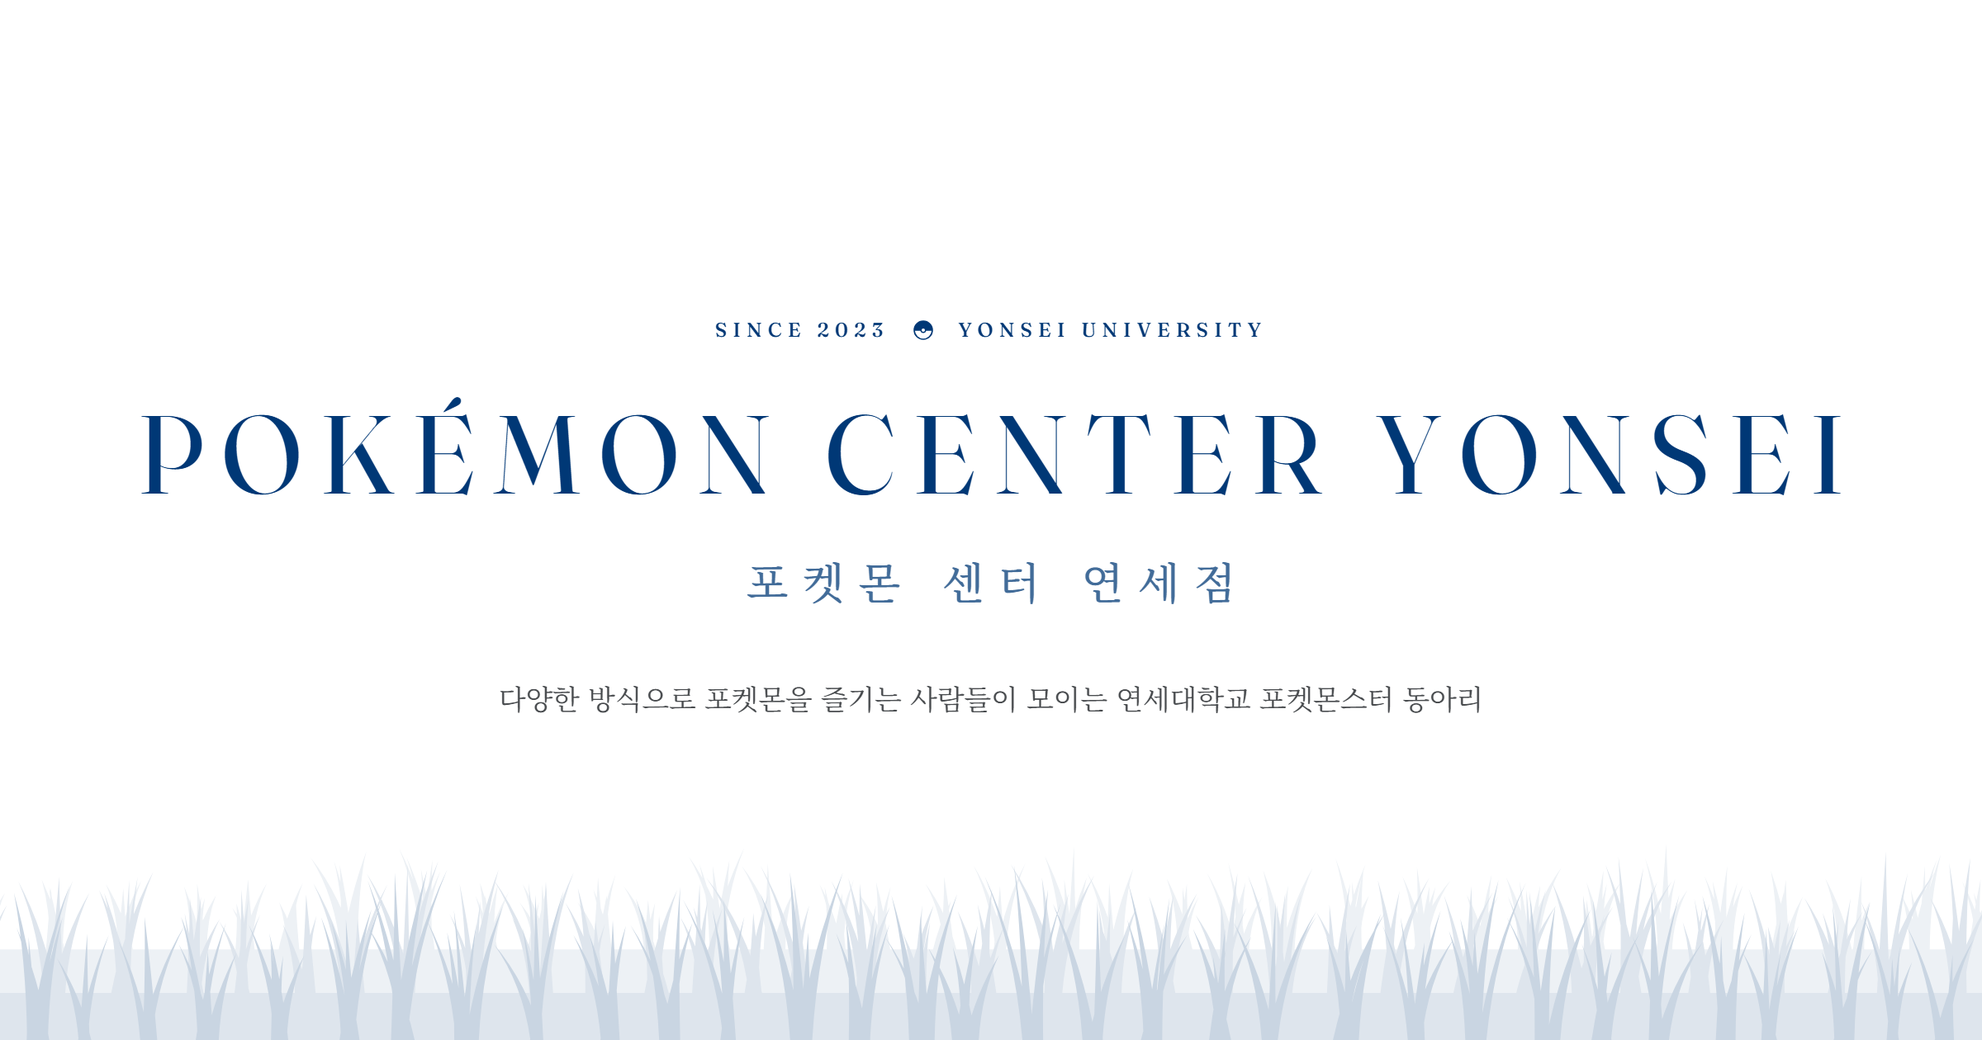
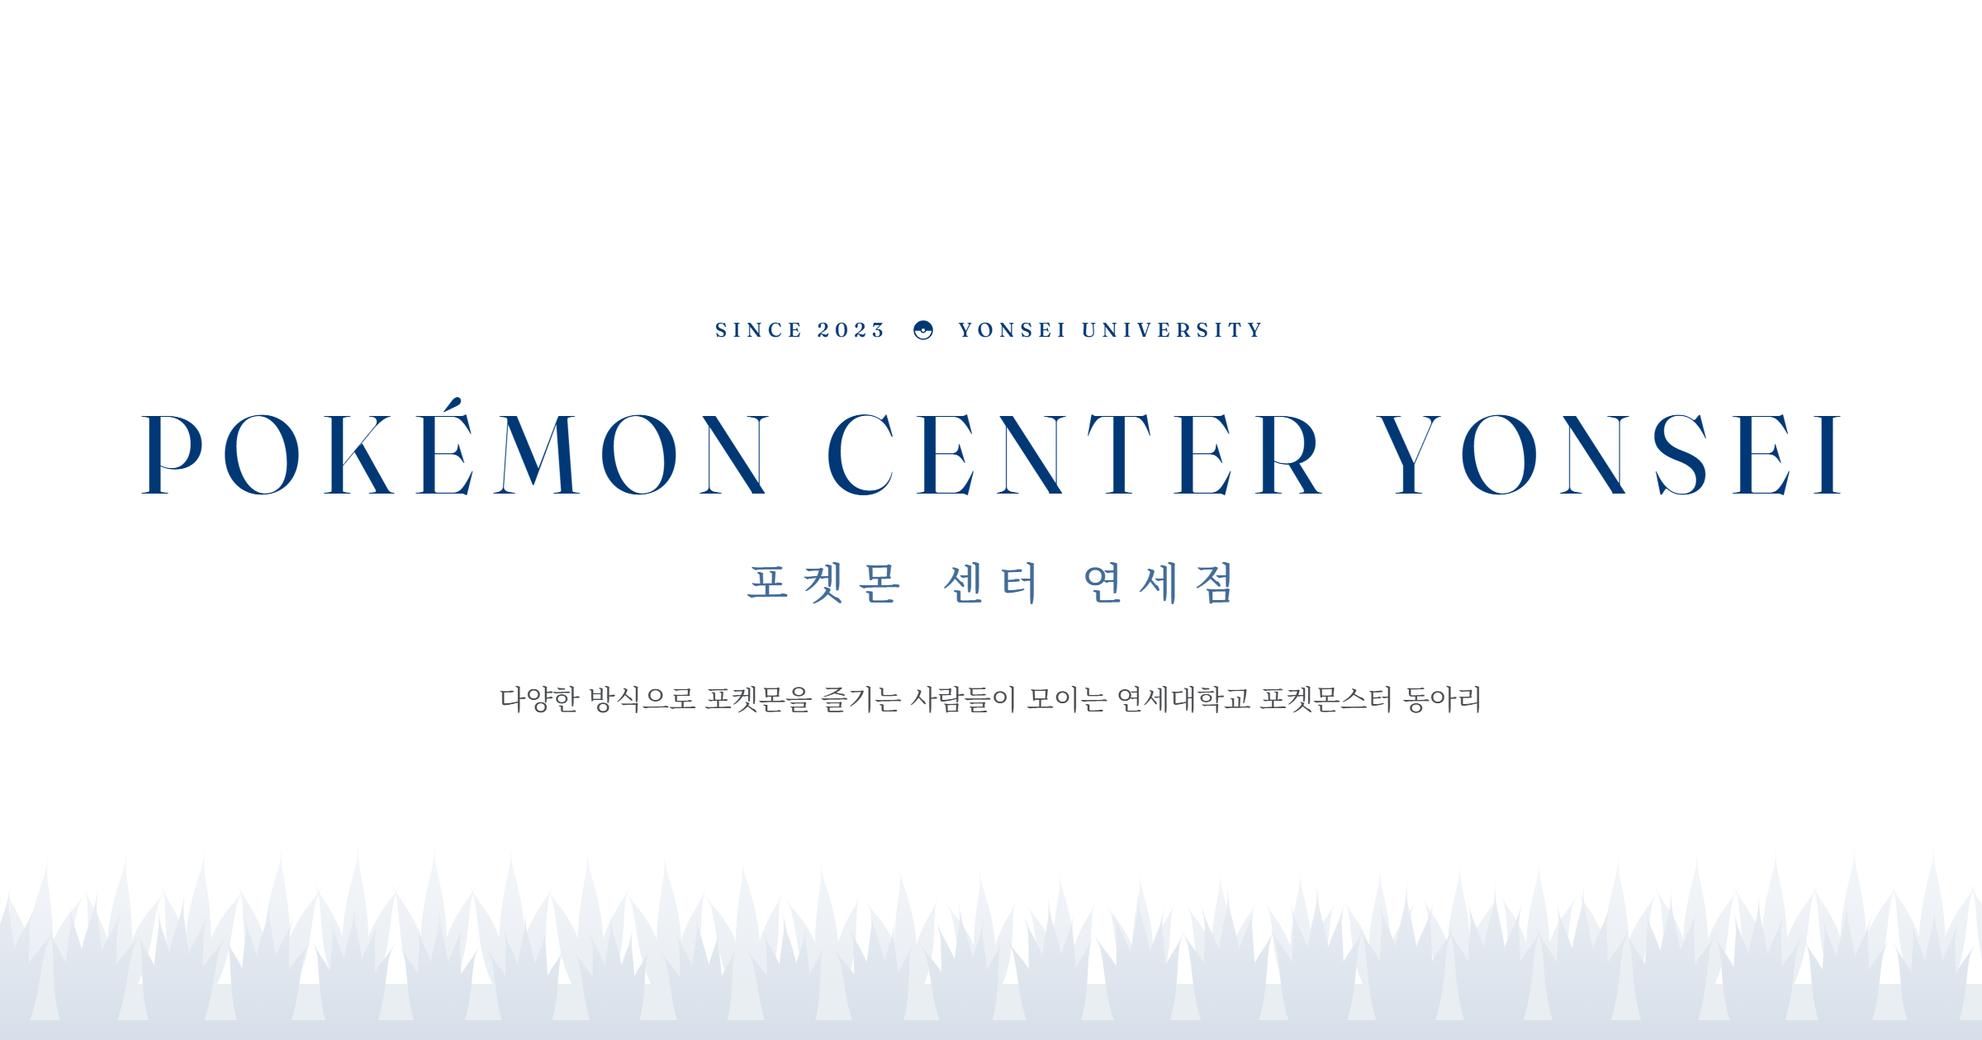
Soften the hero grass, and let real Pokemon step out of it
The first grass read as weeds: thin random spikes in three dense rows, and
a click set it buzzing at about 8Hz. It is now two rows of evenly spaced
clumps of broad, curling leaves that fade toward the tips, with a gently
waving top line. A click sends one push outward from the point, and the
clumps swing on a soft spring two or three times and settle.

The traced silhouettes are replaced by the colour renders: Rufflet and
Braviary borrow the mascot images already in the page, and Pikachu (the
HOME render) is embedded once as a 326px WebP, since a PNG would break
the gzip budget. The page now sits at that budget, which CLAUDE.md notes.

diff --git a/index.html b/index.html
@@ -2068,7 +2068,8 @@ document.querySelectorAll('[data-copy]').forEach(btn => {
 /* ==========================================================================
    첫 화면의 풀숲.
    첫 화면 아래에 풀숲이 깔려 바람에 흔들린다. 커서가 지나가면 풀이 비켜서고,
-   클릭하면 풀이 바스락거리다가 가끔 포켓몬이 고개를 내민다 (엠블럼의 실루엣을 그대로 쓴다).
+   클릭하면 풀이 물결처럼 출렁이다가 가끔 포켓몬이 고개를 내민다.
+   수리둥보와 워글은 마스코트 섹션의 그림(.art-rufflet, .art-braviary)을 빌려 쓰고, 피카츄만 여기 따로 넣었다.
    ========================================================================== */
 (() => {
   const cv = document.querySelector('.hero-grass');
@@ -2078,30 +2079,29 @@ document.querySelectorAll('[data-copy]').forEach(btn => {
   let w = 0, h = 0, gh = 0, px = -1e4, py = -1e4, pvx = 0, ink = [0, 56, 118], bg = [255, 255, 255];
   let rows = [], rustles = [], enc = null, clicks = 0;
 
-  /* 엠블럼 기호에서 루차불, 워글, 피카츄의 윤곽을 골라낸다 */
-  const mons = (() => {
-    const NS = 'http://www.w3.org/2000/svg', tmp = document.createElementNS(NS, 'svg');
-    tmp.setAttribute('style', 'position:absolute;width:0;height:0;overflow:hidden');
-    document.body.append(tmp);
-    const pick = { rufflet: [], braviary: [], pikachu: [] };
-    for (const p of document.querySelectorAll('#emblem g path')) {
-      const [tx, ty] = p.getAttribute('transform').match(/-?[\d.]+/g).map(Number);
-      const c = p.cloneNode(); c.removeAttribute('transform'); tmp.append(c);
-      const bb = c.getBBox(), x0 = tx + bb.x, y0 = ty + bb.y, x1 = x0 + bb.width, y1 = y0 + bb.height;
-      const mx = (x0 + x1) / 2, my = (y0 + y1) / 2;
-      const key = mx < -350 && my > -60 && my < 480 ? 'rufflet' : mx > 420 && my > -60 && my < 480 ? 'braviary'
-                : Math.abs(mx) < 250 && my < -520 ? 'pikachu' : null;
-      if (key) pick[key].push({ d: p.getAttribute('d'), tx, ty, x0, y0, x1, y1 });
-    }
-    tmp.remove();
-    return Object.entries(pick).filter(([, a]) => a.length).map(([name, a]) => {
-      const path = new Path2D();
-      for (const q of a) path.addPath(new Path2D(q.d), new DOMMatrix().translate(q.tx, q.ty));
-      const x0 = Math.min(...a.map(q => q.x0)), x1 = Math.max(...a.map(q => q.x1));
-      const y0 = Math.min(...a.map(q => q.y0)), y1 = Math.max(...a.map(q => q.y1));
-      return { name, path, x0, y0, wd: x1 - x0, ht: y1 - y0 };
-    });
-  })();
+  /* 풀숲에서 나올 포켓몬. 그림이 실제로 차지하는 영역(투명 여백 제외)을 재 둔다 */
+  const cssImage = sel => {
+    const el = document.querySelector(sel);
+    const m = el && getComputedStyle(el).backgroundImage.match(/url\("?(.+?)"?\)$/);
+    return m && m[1];
+  };
+  /* 피카츄: 공식 HOME 렌더(도감 25번)를 표시 크기의 2배(높이 326px)로 줄인 WebP. PNG로는 용량 한도를 넘는다 */
[1 lines of base64/hex data omitted]
+  const mons = [cssImage('.art-rufflet'), cssImage('.art-braviary'), PIKACHU].filter(Boolean).map(src => {
+    const mon = { img: new Image(), ready: false };
+    mon.img.onload = () => {
+      const n = 128, c = document.createElement('canvas'); c.width = c.height = n;
+      const g = c.getContext('2d'); g.drawImage(mon.img, 0, 0, n, n);
+      const a = g.getImageData(0, 0, n, n).data;
+      let x0 = n, y0 = n, x1 = 0, y1 = 0;
+      for (let y = 0; y < n; y++) for (let x = 0; x < n; x++)
+        if (a[(y * n + x) * 4 + 3] > 16) { x0 = Math.min(x0, x); x1 = Math.max(x1, x + 1); y0 = Math.min(y0, y); y1 = Math.max(y1, y + 1); }
+      const k = mon.img.naturalWidth / n;
+      Object.assign(mon, { sx: x0 * k, sy: y0 * k, sw: (x1 - x0) * k, sh: (y1 - y0) * k, ready: x1 > x0 });
+    };
+    mon.img.src = src;
+    return mon;
+  });
 
   const rgbOf = v => v.split(',').map(x => parseInt(x, 10));
   function readInk() {
@@ -2109,12 +2109,17 @@ document.querySelectorAll('[data-copy]').forEach(btn => {
     ink = rgbOf(cs.getPropertyValue('--navy-rgb'));
     const probe = document.createElement('i'); probe.style.color = cs.getPropertyValue('--bg'); document.body.append(probe);
     bg = getComputedStyle(probe).color.match(/\d+/g).slice(0, 3).map(Number); probe.remove();
+    rows.forEach(paint);
   }
   /* 겹친 풀이 비치지 않도록 반투명 대신 바탕과 섞은 불투명색을 쓴다 */
   const tone = k => `rgb(${ink.map((c, i) => Math.round(bg[i] + (c - bg[i]) * k)).join(',')})`;
+  /* 뿌리 쪽은 진하고 끝으로 갈수록 옅어진다 */
+  function paint(row) {
+    const g = ctx.createLinearGradient(0, row.y - row.top, 0, row.y);
+    g.addColorStop(0, tone(row.k * .55)); g.addColorStop(1, tone(row.k));
+    row.fill = g;
+  }
 
-  let seed = 7;
-  const rnd = () => (seed = (seed * 16807) % 2147483647) / 2147483647;
   function build() {
     const box = cv.getBoundingClientRect();
     w = Math.max(box.width, 1); h = Math.max(box.height, 1);
@@ -2122,77 +2127,101 @@ document.querySelectorAll('[data-copy]').forEach(btn => {
     cv.width = Math.round(w * dpr); cv.height = Math.round(h * dpr);
     ctx.setTransform(dpr, 0, 0, dpr, 0, 0);
     const small = w < 640;
-    gh = small ? Math.min(Math.max(h * .15, 80), 120) : Math.min(Math.max(h * .21, 110), 200);
-    seed = 7;
-    rows = [[.40, .46, .07], [.2, .62, .13], [-.03, .8, .21]].map(([lift, tall, k]) => {
-      const tufts = [], step = small ? 26 : 36;
-      for (let x = -12 + rnd() * step; x < w + 12; x += step * (.75 + rnd() * .5)) {
-        const n = 3 + Math.floor(rnd() * 3), blades = [];
-        for (let i = 0; i < n; i++) blades.push({ lean: (i / (n - 1) - .5) * 1.0 + (rnd() - .5) * .25, len: .6 + rnd() * .4, off: (rnd() - .5) * 8, wd: 2.8 + rnd() * 2 });
-        tufts.push({ x, y: h - gh * lift, H: gh * tall * (.75 + rnd() * .35), blades, ang: 0, vel: 0, ph: rnd() * 6.28 });
+    gh = small ? Math.min(Math.max(h * .13, 80), 110) : Math.min(Math.max(h * .17, 110), 160);
+    /* 두 겹: 뒷줄은 옅고 높이 앉고, 앞줄은 진하고 화면 아래에 붙는다. [밑동 높이, 키, 진하기, 잎 수] */
+    rows = [[.3, .7, .085, 3], [0, .78, .16, 5]].map(([lift, tall, k, n], ri) => {
+      const tufts = [], y = h - gh * lift, step = gh * tall * .62;
+      for (let x = (ri ? 0 : step / 2) - step; x < w + step; x += step) {
+        /* 풀숲 윗선이 완만한 물결을 그리도록 키를 사인으로 고른다 */
+        const H = gh * tall * (.9 + .1 * Math.sin(x / 150 + ri * 2.1));
+        tufts.push({ x, H, ang: 0, vel: 0, hit: 0 });
       }
-      return { k, tufts, y: h - gh * lift };
+      const row = { k, n, y, top: gh * tall * 1.02, tufts };
+      paint(row);
+      return row;
     });
   }
 
-  function blade(x, y, len, lean, wd) {
-    const tx = x + Math.sin(lean) * len, ty = y - Math.cos(lean) * len;
-    const cx = x + Math.sin(lean * .45) * len * .55, cy = y - Math.cos(lean * .45) * len * .55;
-    ctx.moveTo(x - wd, y); ctx.quadraticCurveTo(cx - wd * .4, cy, tx, ty); ctx.quadraticCurveTo(cx + wd * .4, cy, x + wd, y);
+  /* 잎 하나: 밑동은 넓고 가운데가 살짝 부푼 뒤 끝이 뾰족해진다. 끝으로 갈수록 휘어진다 */
+  const SEG = 7, L = new Float32Array((SEG + 1) * 2), R = new Float32Array((SEG + 1) * 2);
+  function leaf(x, y, len, lean, curl, wd) {
+    let cx = x, cy = y;
+    for (let i = 0; i <= SEG; i++) {
+      const s = i / SEG, a = lean + curl * s * s;
+      const half = wd * Math.sin(Math.PI * (.2 + .8 * s)) * (1 - s * .15);
+      const nx = Math.cos(a), ny = Math.sin(a);
+      L[i * 2] = cx - nx * half; L[i * 2 + 1] = cy - ny * half;
+      R[i * 2] = cx + nx * half; R[i * 2 + 1] = cy + ny * half;
+      cx += Math.sin(a) * len / SEG; cy -= Math.cos(a) * len / SEG;
+    }
+    ctx.moveTo(L[0], L[1]);
+    for (let i = 1; i < SEG; i++) ctx.quadraticCurveTo(L[i * 2], L[i * 2 + 1], (L[i * 2] + L[i * 2 + 2]) / 2, (L[i * 2 + 1] + L[i * 2 + 3]) / 2);
+    ctx.quadraticCurveTo(L[SEG * 2], L[SEG * 2 + 1], cx, cy);
+    ctx.quadraticCurveTo(R[SEG * 2], R[SEG * 2 + 1], (R[SEG * 2] + R[SEG * 2 - 2]) / 2, (R[SEG * 2 + 1] + R[SEG * 2 - 1]) / 2);
+    for (let i = SEG - 1; i > 0; i--) ctx.quadraticCurveTo(R[i * 2], R[i * 2 + 1], (R[i * 2] + R[i * 2 - 2]) / 2, (R[i * 2 + 1] + R[i * 2 - 1]) / 2);
+    ctx.lineTo(R[0], R[1]);
+    ctx.closePath();
+  }
+  /* 포기: 넓은 잎 몇 장이 부채꼴로 퍼진다. 가운데 잎이 가장 길고, 바깥 잎일수록 짧고 바깥으로 휜다 */
+  function tuft(tf, n, y) {
+    const c = (n - 1) / 2, sway = tf.ang;
+    for (let i = 0; i < n; i++) {
+      const u = (i - c) / c, au = Math.abs(u);          /* -1 … 1 */
+      leaf(tf.x + u * tf.H * .1, y, tf.H * (1 - .24 * au ** 1.2), u * .2 + sway * .3, u * .26 + sway, tf.H * (.11 - .02 * au));
+    }
   }
 
   function step(t) {
     for (const row of rows) for (const tf of row.tufts) {
-      let target = still ? 0 : Math.sin(t / 1300 + tf.x / 170) * .05 + Math.sin(t / 2900 + tf.x / 90 + tf.ph) * .03;
-      const dx = tf.x - px, dy = tf.y - tf.H * .6 - py, d = Math.hypot(dx, dy);
-      if (d < 120) { const f = (1 - d / 120) ** 2; target += Math.sign(dx || 1) * f * .6; tf.vel += pvx * .004 * f; }
-      tf.vel += (target - tf.ang) * .12 - tf.vel * .2;
+      let target = still ? 0 : Math.sin(t / 1700 + tf.x / 210) * .07 + Math.sin(t / 3100 + tf.x / 120) * .04;
+      const dx = tf.x - px, dy = row.y - tf.H * .6 - py, d = Math.hypot(dx, dy);
+      if (d < 130) { const f = (1 - d / 130) ** 2; target += Math.sign(dx || 1) * f * .45; tf.vel += pvx * .0007 * f; }
+      /* 클릭: 가까운 포기부터 차례로 한 번 밀어 준다. 나머지는 용수철이 알아서 출렁이다 멎는다 */
+      for (const r of rustles) {
+        const dxr = tf.x - r.x;
+        if (tf.hit < r.t && Math.abs(dxr) < 220 && t >= r.t + Math.abs(dxr) * 1.6) {
+          tf.vel += Math.sign(dxr || 1) * .034 * (1 - Math.abs(dxr) / 220); tf.hit = r.t;
+        }
+      }
+      tf.vel += (target - tf.ang) * .014 - tf.vel * .05;
       tf.ang += tf.vel;
     }
     pvx *= .6;
+    rustles = rustles.filter(r => t - r.t < 600);
   }
 
   function draw(t) {
     ctx.clearRect(0, 0, w, h);
     rows.forEach((row, ri) => {
-      if (ri === 2 && enc) drawMon(t);
-      ctx.fillStyle = tone(row.k); ctx.beginPath();
-      ctx.rect(-4, row.y - 2, w + 8, h - row.y + 6);   /* 뒷줄 풀의 밑동이 비치지 않게 땅을 채운다 */
-      for (const tf of row.tufts) {
-        let shake = 0;
-        for (const r of rustles) {
-          const age = (t - r.t) / 900, dx = Math.abs(tf.x - r.x);
-          if (age < 1 && dx < 170) shake += Math.sin(t * .05 + tf.x) * .3 * (1 - age) * (1 - dx / 170);
-        }
-        for (const b of tf.blades) blade(tf.x + b.off, tf.y, tf.H * b.len, b.lean * .55 + tf.ang + shake, b.wd);
-      }
+      if (ri === 1 && enc) drawMon(t);
+      ctx.fillStyle = row.fill;
+      const ground = Math.min(row.y, h - gh * .1);           /* 풀 밑동 사이가 비지 않게 땅을 채운다 */
+      ctx.fillRect(0, ground - 1, w, h - ground + 1);
+      ctx.beginPath();
+      for (const tf of row.tufts) tuft(tf, row.n, row.y);
       ctx.fill();
     });
-    rustles = rustles.filter(r => t - r.t < 900);
   }
 
-  /* 풀숲에서 포켓몬이 나왔다 들어간다: 솟아오름 → 느낌표 → 머무름 → 내려감 */
+  /* 풀숲에서 포켓몬이 나왔다 들어간다: 풀이 먼저 흔들리고 → 솟아오름 → 느낌표 → 머무름 → 내려감 */
   function drawMon(t) {
-    const p = t - enc.t, UP = 260, RISE = 460, HOLD = 1700, DOWN = 420;
+    const p = t - enc.t, UP = 320, RISE = 560, HOLD = 1900, DOWN = 520;
     if (p > UP + RISE + HOLD + DOWN) { enc = null; return; }
-    const m = enc.mon, size = gh * .78, sc = size / m.ht;
-    const baseY = h - gh * .02;
+    const m = enc.mon;
+    const sc = Math.min(gh * 1.02 / m.sh, gh * 1.4 / m.sw), dw = m.sw * sc, dh = m.sh * sc;
     let rise = 0;
-    if (p > UP && p < UP + RISE) { const q = (p - UP) / RISE, s = 1.7; rise = 1 + (s + 1) * (q - 1) ** 3 + s * (q - 1) ** 2; }
-    else if (p >= UP + RISE && p < UP + RISE + HOLD) rise = 1 + Math.sin((p - UP - RISE) / 260) * .025;
-    else if (p >= UP + RISE + HOLD) { const q = (p - UP - RISE - HOLD) / DOWN; rise = 1 - q * q; }
+    if (p > UP && p < UP + RISE) { const q = (p - UP) / RISE, s = 1.2; rise = 1 + (s + 1) * (q - 1) ** 3 + s * (q - 1) ** 2; }
+    else if (p >= UP + RISE && p < UP + RISE + HOLD) rise = 1 + Math.sin((p - UP - RISE) / 300) * .02;
+    else if (p >= UP + RISE + HOLD) { const q = (p - UP - RISE - HOLD) / DOWN; rise = 1 - q * q * (3 - 2 * q); }
     if (rise <= 0) return;
-    const top = baseY - size * .92 * rise;
-    ctx.save();
-    ctx.translate(enc.x - m.wd * sc / 2, top); ctx.scale(sc, sc); ctx.translate(-m.x0, -m.y0);
-    ctx.fillStyle = tone(.62); ctx.fill(m.path);
-    ctx.restore();
+    const top = h - gh * .32 - dh * rise;
+    ctx.drawImage(m.img, m.sx, m.sy, m.sw, m.sh, enc.x - dw / 2, top, dw, dh);
     const bang = p - UP - RISE;
-    if (bang > 0 && bang < 900) {          /* 머리 위 느낌표 */
-      const pop = Math.min(bang / 140, 1), fade = bang > 700 ? 1 - (bang - 700) / 200 : 1;
-      const bx = enc.x + m.wd * sc * .28, by = top - 10, s = 1 + (1 - pop) * .6;
+    if (bang > 0 && bang < 1000) {          /* 머리 위 느낌표 */
+      const pop = Math.min(bang / 160, 1), fade = bang > 780 ? 1 - (bang - 780) / 220 : 1;
+      const s = 1 + (1 - pop) * .5;
       ctx.save(); ctx.globalAlpha = fade; ctx.fillStyle = tone(.9);
-      ctx.translate(bx, by); ctx.scale(s, s);
+      ctx.translate(enc.x + dw * .34, top - 8); ctx.scale(s, s);
       ctx.beginPath(); ctx.roundRect(-2.6, -22, 5.2, 14, 2.6); ctx.fill();
       ctx.beginPath(); ctx.arc(0, -3, 2.8, 0, 6.2832); ctx.fill();
       ctx.restore();
@@ -2202,12 +2231,12 @@ document.querySelectorAll('[data-copy]').forEach(btn => {
   let last = 0, running = false, onScreen = true;
   function frame(t) {
     if (document.hidden || !onScreen) { running = false; return; }
-    if (t - last >= 33) { last = t; step(t); draw(t); }
+    if (t - last >= 16) { last = t; step(t); draw(t); }
     requestAnimationFrame(frame);
   }
   const start = () => { if (!running && !document.hidden && onScreen && !still) { running = true; requestAnimationFrame(frame); } };
   new IntersectionObserver(([en]) => { onScreen = en.isIntersecting; if (onScreen) start(); }, { rootMargin: '80px' }).observe(cv);
-  readInk(); build();
+  build(); readInk();
   if (still) draw(0); else start();
   addEventListener('visibilitychange', start);
   let rz = 0;
@@ -2220,10 +2249,9 @@ document.querySelectorAll('[data-copy]').forEach(btn => {
     host.addEventListener('pointerdown', e => {
       const [x] = at(e), t = performance.now();
       rustles.push({ x, t });
-      if (!enc && (clicks++ === 0 || Math.random() < .55)) {
-        const pool = mons.length ? mons : [];
-        if (pool.length) enc = { t, x: Math.min(Math.max(x, 70), w - 70), mon: pool[Math.floor(Math.random() * pool.length)] };
-      }
+      const ready = mons.filter(m => m.ready);
+      if (!enc && ready.length && (clicks++ === 0 || Math.random() < .55))
+        enc = { t, x: Math.min(Math.max(x, 80), w - 80), mon: ready[Math.floor(Math.random() * ready.length)] };
     }, { passive: true });
     host.addEventListener('pointerleave', () => { px = py = -1e4; }, { passive: true });
   }

diff --git a/DESIGN.md b/DESIGN.md
@@ -345,7 +345,7 @@ Japanese text breaks at phrase boundaries, not at arbitrary characters: `@suppor
 ### Hero
 Centred column, type only: the hairline-flanked meta row, the wordmark, the Korean name at `.32em` (`.24em` in Japanese), a serif one-line description, then the navy pill plus a YPL text link, then the scroll cue. Everything rises and fades in on load at `--d × 120ms + 100ms`; the wordmark instead opens its tracking from `.04em` to `.16em` over 1.8s at a 260ms delay — the signature moment, re-targeted to `.1em` under 640px. The scroll cue is a `Scroll` label at `--t-label`, 60% opacity, above a 48px hairline down which a navy segment falls on a 2.4s loop.
 
-Along the bottom of the hero runs tall grass (`canvas.hero-grass`), the Pokémon convention for "wild Pokémon live here". Three rows of tapered blades in Yonsei Blue mixed into the paper at 7%, 13% and 21%, each row with its ground filled so the back rows read as layered bands, about a fifth of the hero tall (80–120px under 640px). It sways on a slow wind, bends away from the pointer and whips with the pointer's speed. A click or tap rustles the grass around it and, on the first click and about half the time after, a Rufflet, Braviary or Pikachu silhouette (the traced figures from `#emblem`, at 62% ink) rises from between the front and middle rows with a `!` above it, holds, and sinks back. Under reduced motion the grass is drawn once, still. It stops drawing when the hero leaves the screen.
+Along the bottom of the hero runs tall grass (`canvas.hero-grass`), the Pokémon convention for "wild Pokémon live here". Two rows of clumps at an even rhythm, like the game's grass tiles: a pale back row (Yonsei Blue mixed into the paper at 8.5%) set higher, and a front row (16%) on the bottom edge, each fading lighter toward the tips. A clump is three (back) or five (front) broad leaves fanned out, the middle one longest, the outer ones shorter and curling outward; the tops of the row rise and fall in a slow wave. The grass is about a sixth of the hero tall (110–160px, 80–110px under 640px). It sways on a slow wind and leans away from the pointer. A click or tap sends one soft push outward from the point, so the clumps swing two or three times on a spring (about 0.9s a swing) and settle; nothing jitters. On the first click and about half the time after, a Pokémon rises between the rows with a `!` above it, holds, and sinks back: Rufflet or Braviary (the mascot renders, borrowed from `.art-rufflet` / `.art-braviary`, no second copy) or Pikachu (the HOME render, 326px tall WebP, embedded once in the script because a PNG would break the size budget). Under reduced motion the grass is drawn once, still. It stops drawing when the hero leaves the screen.
 
 ### Accordions (executives and FAQ)
 One mechanism, two dressings. A full-width button row (84px for 기수, 80px for FAQ) in a grid, with a 36px circular chevron button on the right whose vertical stroke rotates 90° when open; the panel is a `grid-template-rows: 0fr → 1fr` transition over 720ms with the inner content fading and rising at a 90–100ms delay. Rows are separated by inset hairlines only, and the list as a whole is capped top and bottom by one.

diff --git a/CLAUDE.md b/CLAUDE.md
@@ -47,6 +47,7 @@
 | 임원 카드 | 160×160 PNG (1~7기는 192×192 그대로) | 84px 원형 (그림 78px) | 공식 HOME 렌더에서 LANCZOS 축소. 표시 78px의 2배에 맞춘 크기다 |
 | 마스코트 | 512×512 PNG | 마스코트 칸 260px | 무손실 재압축만 (픽셀 보존). CSS `.art-rufflet`, `.art-braviary`에 한 번씩만 들어 있고 두 곳이 같이 쓴다 |
 | 동아리 엠블럼 | SVG 기호 `#emblem` (벡터라 해상도 제한 없음) | 상단 메뉴 40px(옆에 워드마크), 바닥글 64px | 2026-09 새 로고(2048px 원본)에서 만듦. 원, 고리, 몬스터볼은 원본에서 잰 반지름으로 그리고, 글자와 포켓몬 그림은 원본에서 윤곽을 땄다. 한 번만 들어 있고 두 곳이 `<use href="#emblem">`로 같이 쓴다. 모양을 고치지 말 것 |
+| 풀숲 포켓몬 | 수리둥보, 워글은 마스코트 그림을 빌려 씀. 피카츄만 높이 326px WebP | 첫 화면 풀숲, 최대 약 163px | 피카츄는 공식 HOME 렌더(25번)를 줄인 것. PNG는 용량 한도를 넘어 WebP(품질 85)로 넣었다. 첫 화면 풀숲 스크립트 안 `PIKACHU`에 있다 |
 | 탭 아이콘 | 32×32 PNG, 홈 화면용 180×180 PNG | 브라우저 탭, 휴대폰 홈 화면 | 같은 로고 원본에서 새로 뽑음. 180은 흰 바탕(아이폰이 투명을 못 씀), 256색 |
 
 
@@ -69,7 +70,7 @@
 - 아코디언 `aria-expanded` + `aria-controls` (FAQ 13개, 기수 7개), 닫힌 내용에는 `inert`
 - 모든 `<img>`에 `width`/`height` (레이아웃 시프트 방지)
 - 터치 타깃 44px 이상
-- **파일 2MB 이하** (현재 1.84MB, gzip 1.28MB. gzip 1.3MB가 한도라 여유가 적다) / **3G 인터랙티브 10초 이하** (현재 약 8.1초)
+- **파일 2MB 이하** (현재 1.87MB, gzip 1.30MB. gzip 1.3MB 한도에 거의 닿아 있어서, 무엇을 더 넣으려면 먼저 덜어낼 것을 찾아야 한다) / **3G 인터랙티브 10초 이하** (현재 약 8.1초)
 
 ### 4. 외부 의존
 
